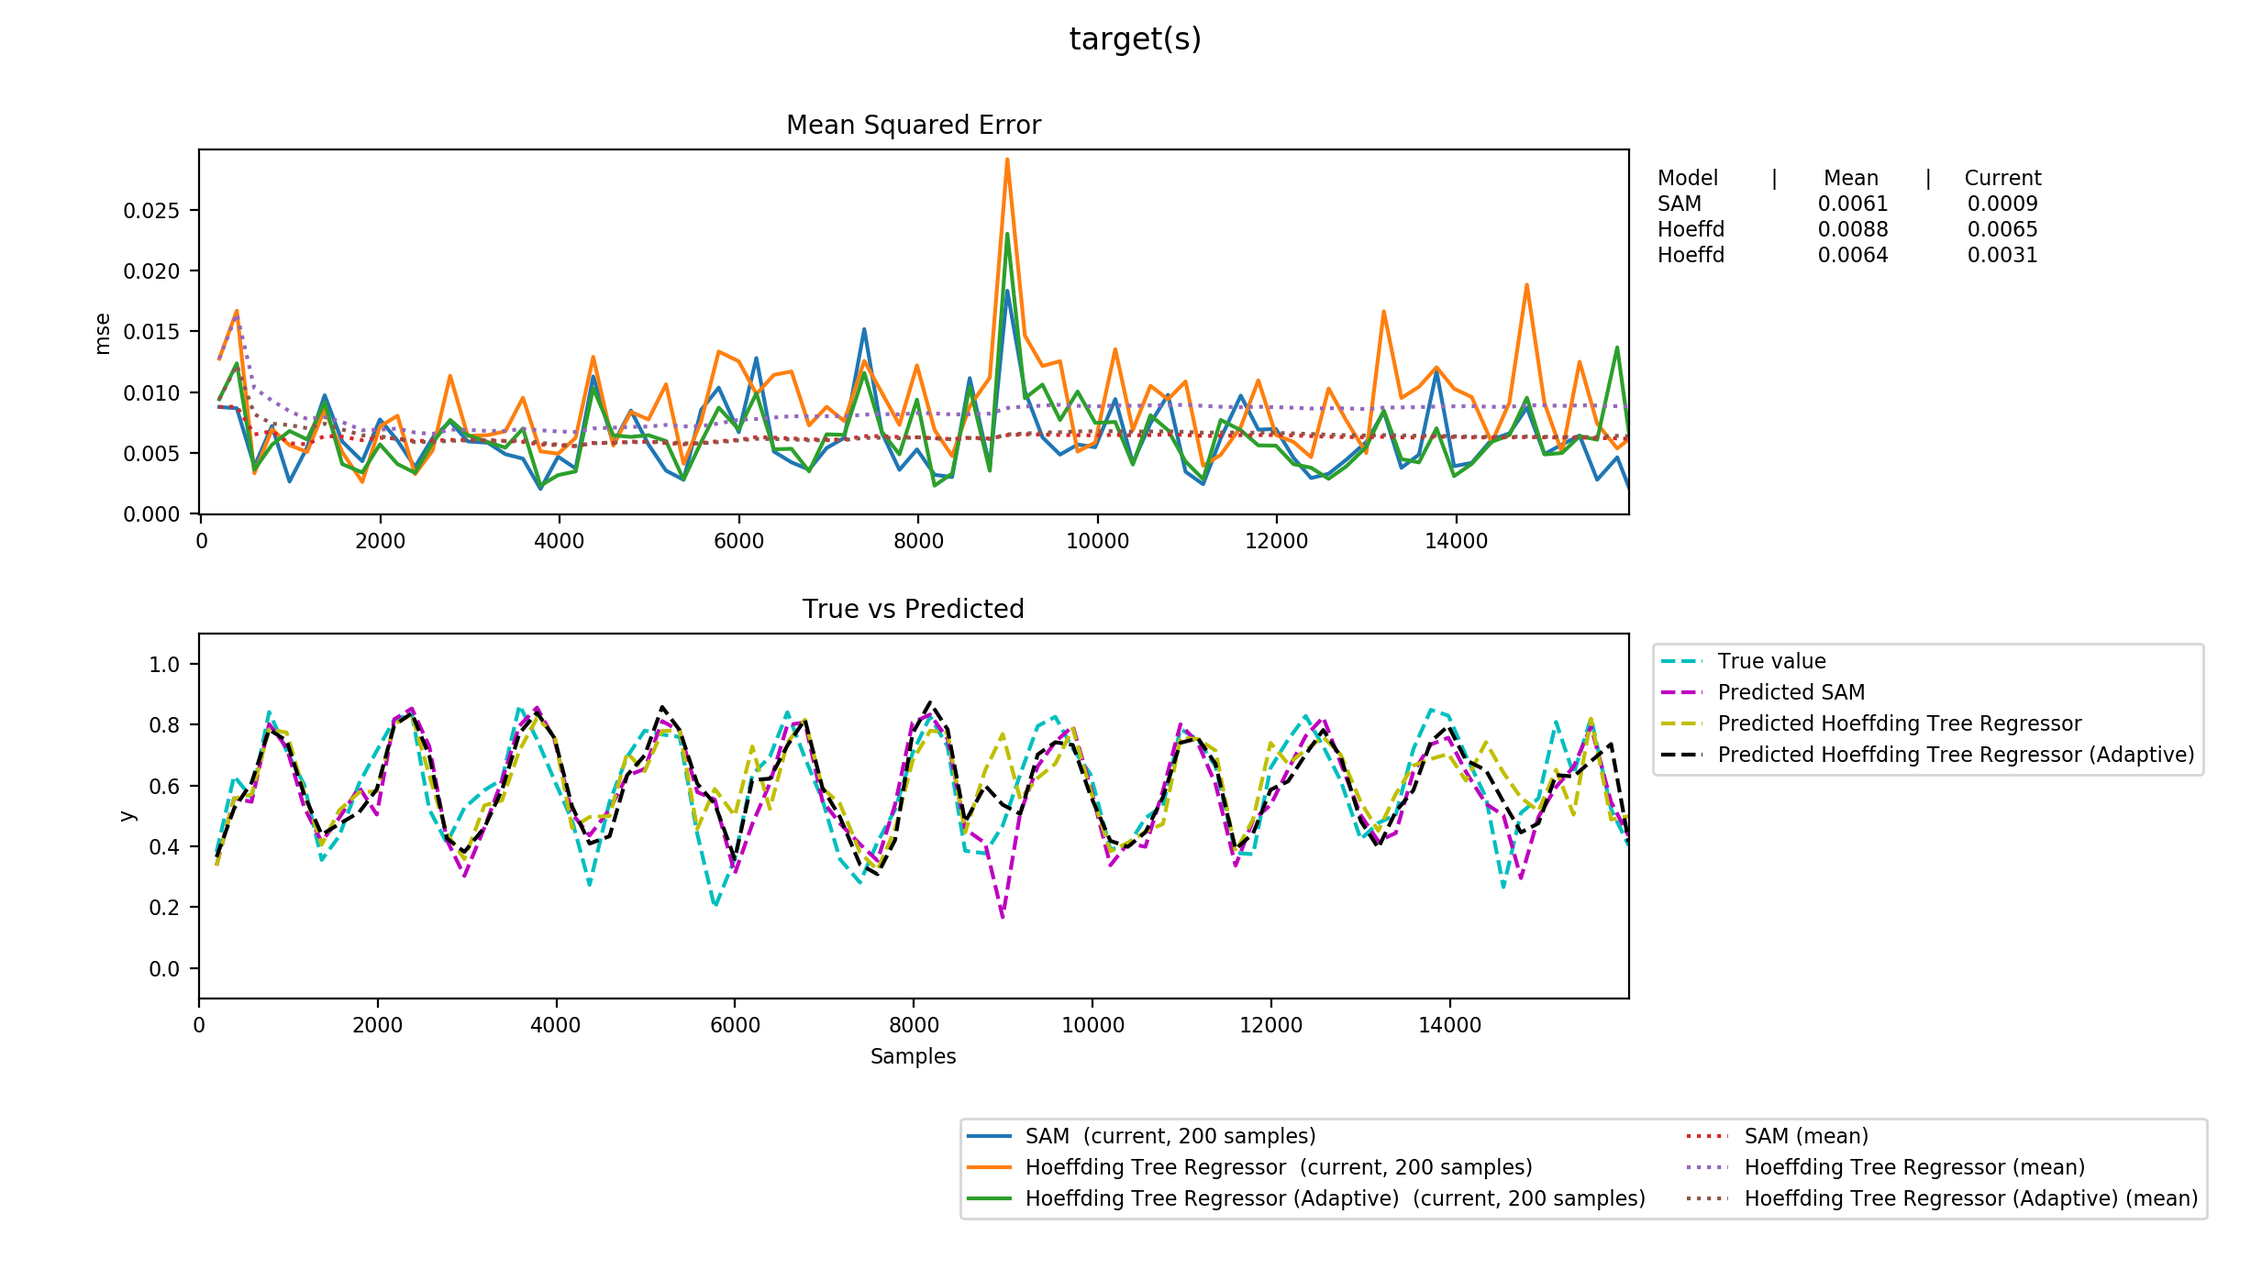
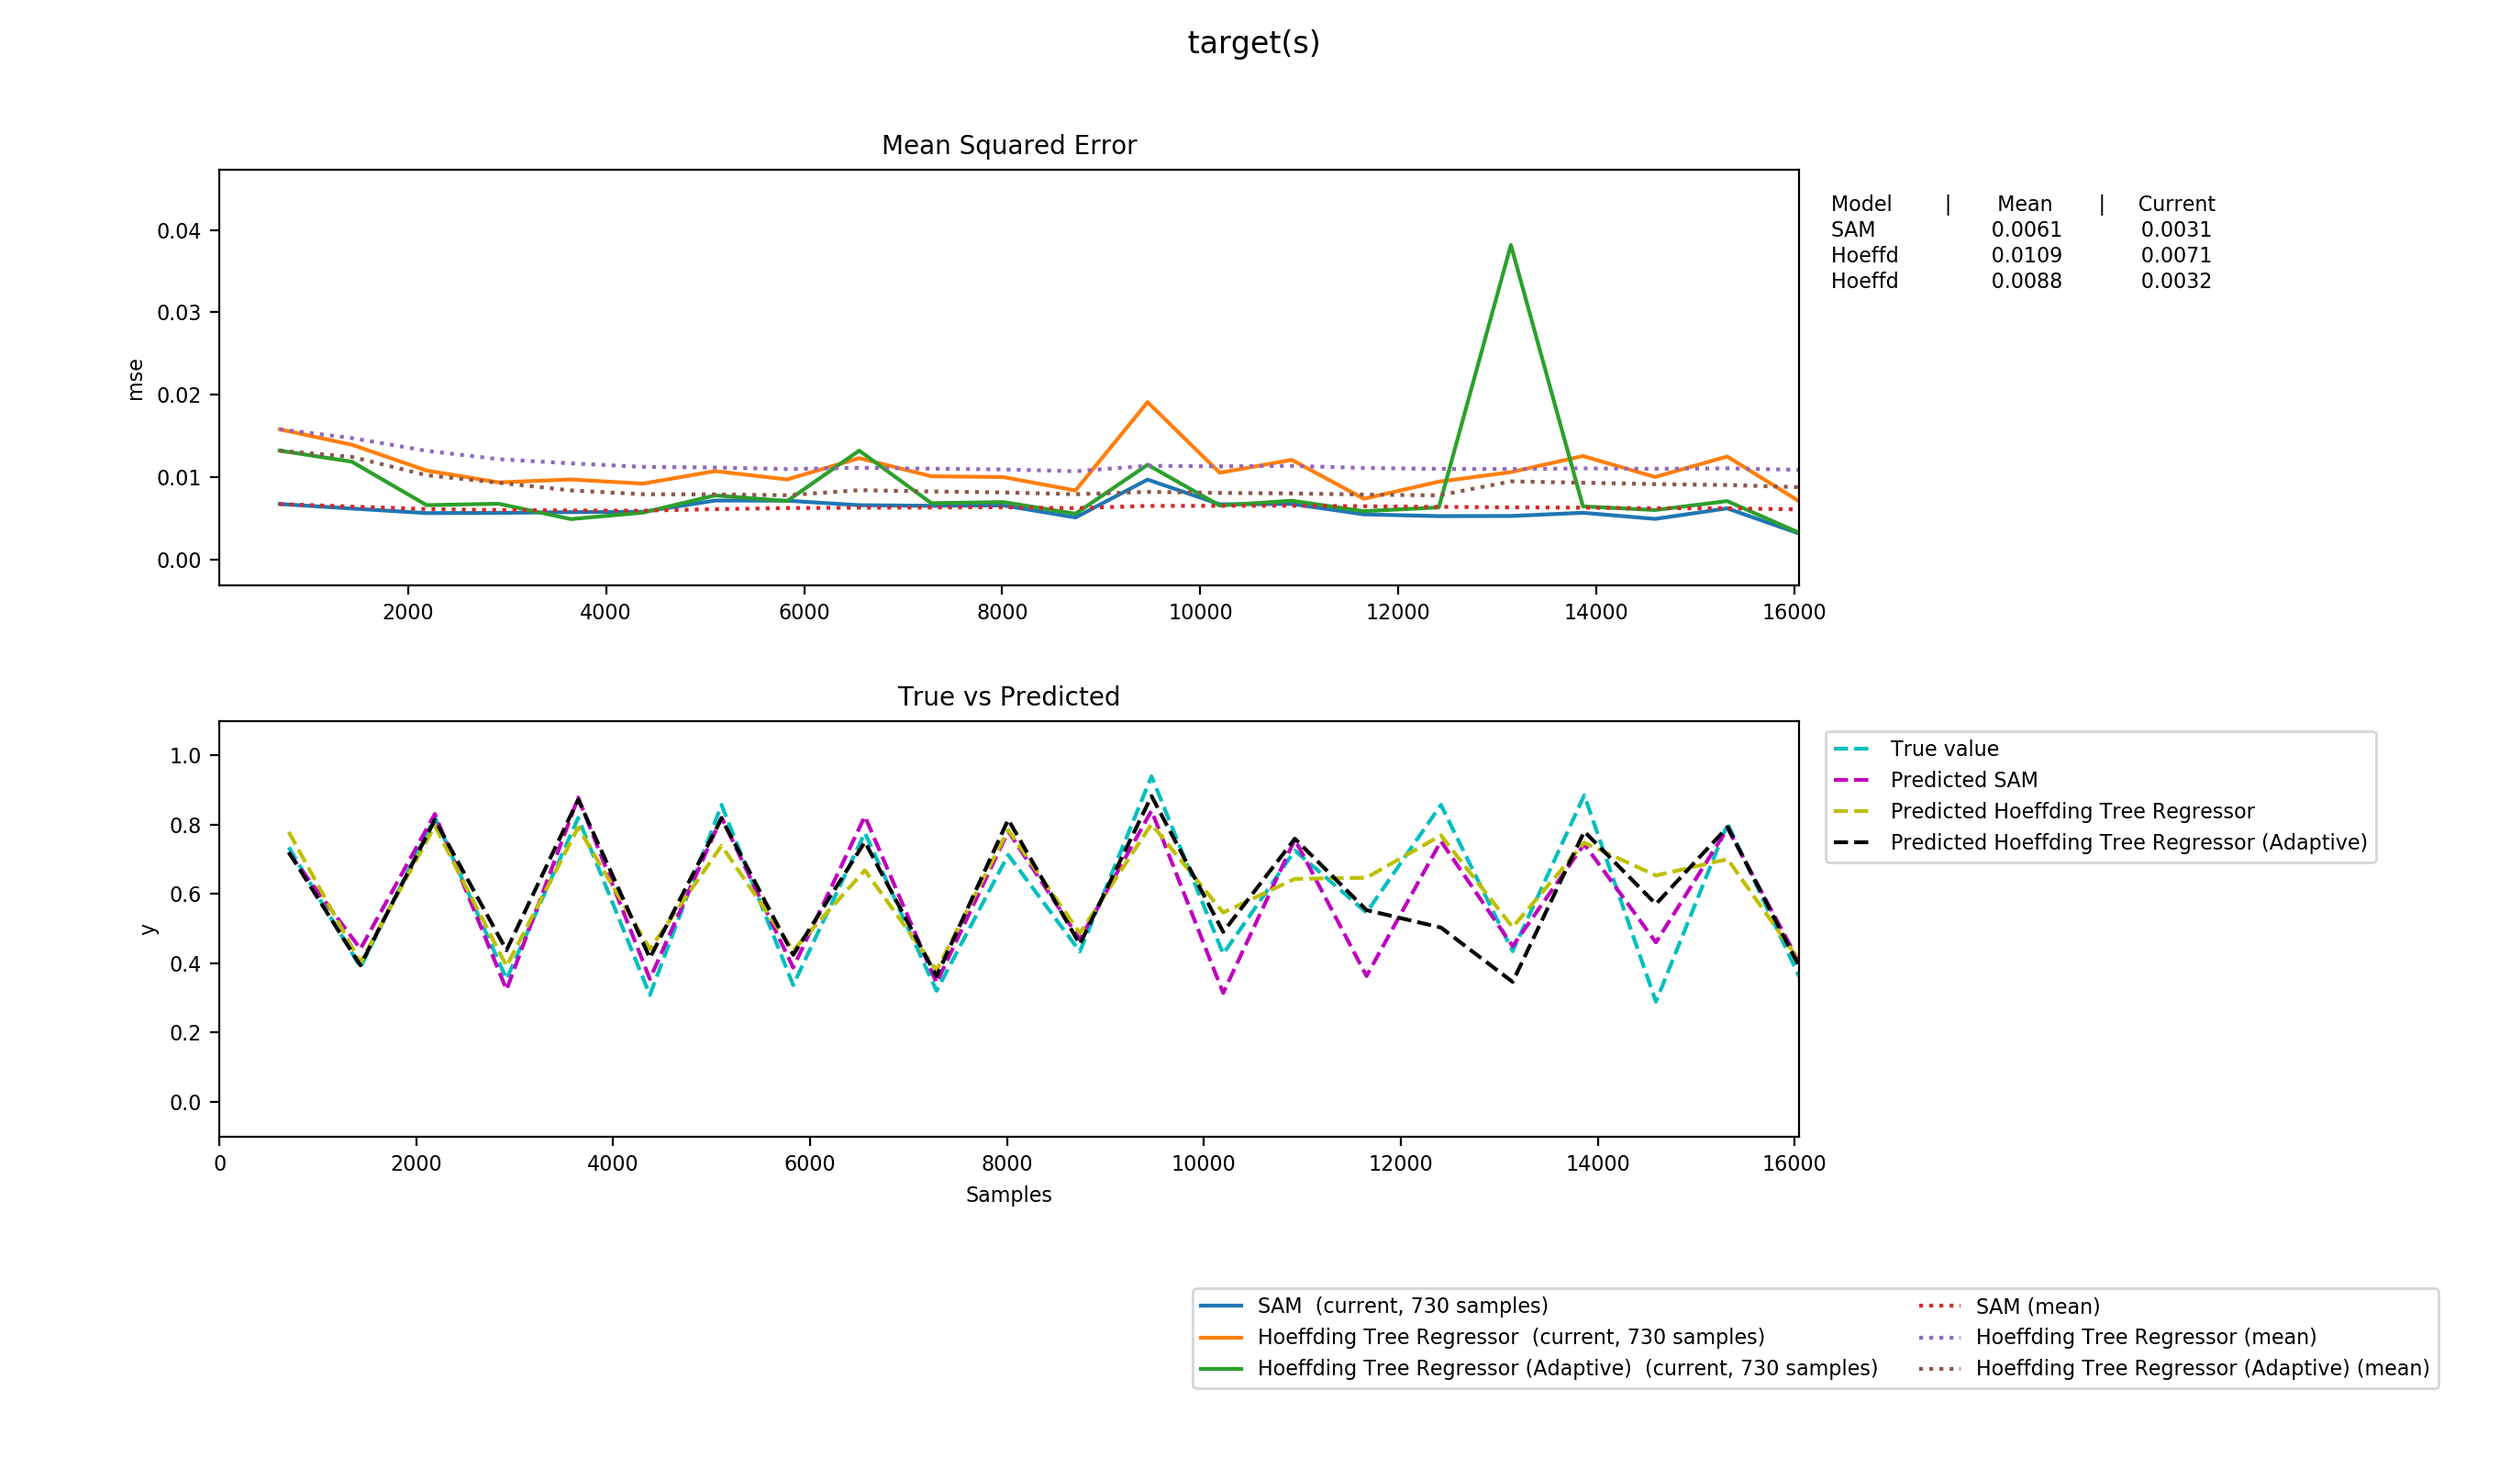
Extend content about the dataset, and do some formatting

diff --git a/dataset.py b/dataset.py
@@ -6,8 +6,6 @@
 #pylinignore
 #%matplotlib osx
 
-
-
 #%%
 import numpy as np # linear algebra
 import pandas as pd # data processing, CSV file I/O (e.g. pd.read_csv)
@@ -23,12 +21,13 @@ import matplotlib.pyplot as plt
 
 
 #%%
+print("Reading dataset...")
 df = pd.read_csv(
     "weatherHistory.csv",
     parse_dates={"datetime": ["Formatted Date"]},
     date_parser=pd.to_datetime,
     index_col="datetime")
-
+print("done!")
 #%%
 
 df.index = pd.to_datetime(df.index, utc=True)
@@ -61,7 +60,7 @@ tdf.drop(columns=["Pressure (millibars)", "Wind Bearing (degrees)"]).resample("W
 tdf.info()
 
 X = tdf[["Pressure (millibars)", "Humidity", "Wind Speed (km/h)"]].resample("6H").mean()
-y = tdf[["Temperature (C)"]].resample("6H").mean()
+y = tdf[["Temperature (C)"]].resample("6H").max()
 
 X.plot(subplots=True, layout=(1,3))
 y.plot()
@@ -79,7 +78,7 @@ ds.prepare_for_use()
 
 
 evaluator = EvaluatePrequential(show_plot=True,
-                                n_wait=200,
+                                n_wait=730,
                                 batch_size=28,
                                 metrics=[
                                     'mean_square_error',

diff --git a/README.md b/README.md
@@ -18,7 +18,9 @@ To help with adapting the STM of size *n* its performance is assessed on the *n/
 
 Instead of just dropping these items, those that still comply with the STM are moved into the LTM.
 
-To keep the LTM of size *m* at a reasonable size a kmeans++ clustering is conducted on it using *m/2* clusters
+To keep the LTM of size *m* at a reasonable size a kmeans++ clustering is conducted on it using *m/2* clusters as the ltm reaches a maximum size.
+
+To decide which memory actually gets used to make predictions, the current performance of each memory ois tracked everytime new training samples are presented. The best performing memory is subsequently used to make upcoming predictions (unless new trainig data gives another memory the edge).
 
 > More detailed steps can be found in the linked paper[^paper]
 
@@ -40,33 +42,39 @@ To form a prediction inverse distance weighting[^idw] is used.
 ### Findings and Examples
 
 - `./dataset.py`
-  A testsuite from the `scikit-multiflow` project. Uses 10 years of weather data[^weather] (2006 - 2016, Humidity, Wind, Temperature, Air Pressure,...). It tries to find the real temperature given the average humidity, air pressure and wind speed. Our tests showed that using our algorithm results in marginally smaller summed squared errors than the Hoeffding Tree implementations that come with scikit-multiflow.
+  A testsuite from the `scikit-multiflow` project. Uses 10 years of weather data[^weather] (2006 - 2016, Humidity, Wind, Temperature, Air Pressure,...). See the data plotted [here](doc/temp-overview.png), as well as the [value being predicted](doc/temp-graph.png) and [the parameters](doc/temp-parameters.png) It tries to find the real temperature given the average humidity, air pressure and wind speed. Our tests showed that using our algorithm results nearly 25 per cent smaller summed squared errors than the Hoeffding Tree implementations that come with scikit-multiflow.
   ![Results Temperature regression](doc/sam-temp.png)
-  Noticably, SAM-kNN has almost always smaller error spikes than its contenders.
+  Noticably, SAM-kNN has almost always smaller error spikes than its contenders if at all.
   
 - `./stairs.py`
   A simulated test that does three sweeps over the range [0..1]. Each time the lower half is constructed using the same linear function (with some gaussian noise). The uper half is computed using a random slope.
   
-  |                        Figures                        | Explanation             |
-  | :---------------------------------------------------: | :---------------------- |
+  |                        Figures                        | Explanation                                                  |
+  | :---------------------------------------------------: | :----------------------------------------------------------- |
   | ![First Adaption](doc/Stairs_Example/Adaption_1.png)  | The first adaption takes place when the second random slope (new concept) becomes present enough to justify dropping 496 elements from STM. It also shows the effect of some data in the STM that act like an anchor for some of the dropped data in the upper right. |
   | ![Second Adaption](doc/Stairs_Example/Adaption_2.png) | Likewise the second figure shows the second concept beeing fully adapted to. Also the LTM got cleaned intermediately as well. |
   | ![Third Adaption](doc/Stairs_Example/Adaption_3.png)  | Again, the third adaption happens after the introduction of a third concept |
-  |      ![Final Set](doc/Stairs_Example/Final.png)       | The fourth figure shows the distribution of all points other the whole input as well as the final state of LTM and STM. It proves that the model successfully kept the stable concept of the lower half in the LTM. Also the STM is perfectly adapted to the third concept, which contradicts the other concepts in the upper half. 
+  |      ![Final Set](doc/Stairs_Example/Final.png)       | The fourth figure shows the distribution of all points other the whole input as well as the final state of LTM and STM. It proves that the model successfully kept the stable concept of the lower half in the LTM. Also the STM is perfectly adapted to the third concept, which contradicts the other concepts in the upper half. |
+    
   
   From our Log we can also see, that before Adaption the combined memory has the smallest error, and then after adaption the STM is again the most accurate. This makes sense, since the STM is smaller and with the introduction of a new concept its error increases faster, and the combined memory is used to make predictions. After adaption the STM is again the one with the smallest error and used again to make predictions.
-  <br/>**Its still debatable if the LTM should still hold at least the previous concept in part.** |
 
-  - `./blopps.py`
+  **Its still debatable if the LTM should still hold at least the previous concept in part.**
+  
+- `./blopps.py [n dimensions]`
   Generates arbitrarily dimensioned samples, with each feature following an indepedent normal distribution with randomized mean and variance. Then the features get passed into a randomized polynom to compute a corresponding target value. After a specified number of samples the distributions and the polynom are randomized again, to simulate an abrupt drift with completely new concept and feature distributions.
 
-  ![Final Set](doc/NiceLinearCover/final.png) Here all polynoms happened to be linear. One dimensional input samples were generated. You can see clearly that the LTM covers the original samples in a way that they don't contradict each other and the STM covers only the newest concept. Looking at the Adaptions [Adaption 1](doc/NiceLinearCover/Adaption_1.png), [Adaption 2](doc/NiceLinearCover/Adaption_2.png) and [Adaption 3](doc/NiceLinearCover/Adaption_3.png) one can see that the LTM used to cover more original samples, but when the STM contradicted the LTM the contradicting samples were succesfully cleaned from the LTM.
+  ![Final Set](doc/NiceLinearCover/final.png)
 
-  ![Final Set](doc/Nice_LTM_clean_Example/final.png) Another Example which demonstrates the succesfull cleaning of the LTM. The newest concept, represented by the STM, contradicts parts of old concepts which are still remembered in the LTM. The contradicting samples are cleaned, so that we end up with non contradicting memories.
+  Here all polynoms happened to be linear. One dimensional input samples were generated. You can see clearly that the LTM covers the original samples in a way that they don't contradict each other and the STM covers only the newest concept. Looking at the Adaptions [Adaption 1](doc/NiceLinearCover/Adaption_1.png), [Adaption 2](doc/NiceLinearCover/Adaption_2.png) and [Adaption 3](doc/NiceLinearCover/Adaption_3.png) one can see that the LTM used to cover more original samples, but when the STM contradicted the LTM the contradicting samples were succesfully cleaned from the LTM.
+
+  ![Final Set](doc/Nice_LTM_clean_Example/final.png) 
+  
+  Another Example which demonstrates the succesfull cleaning of the LTM. The newest concept, represented by the STM, contradicts parts of old concepts which are still remembered in the LTM. The contradicting samples are cleaned, so that we end up with non contradicting memories.
 
 
   #### Logs
-  
+
   ```
   ADAPTING: old size & error:  566 0.031908149280463025 new size & error:  70 0.02675182593747353
   Added 331 of 496 to LTM. 
@@ -94,17 +102,6 @@ To form a prediction inverse distance weighting[^idw] is used.
   LTM size: 341 STM size: 439
   Errors:  Complete Model: [0.01731821] STM:  1.650210669830953e-05   LTM:  0.03618848479111652   COMB:  0.017634074959812642
   ```
-
-
-
-
-
-
-  
-
-  
-
-
 
 -----
 
